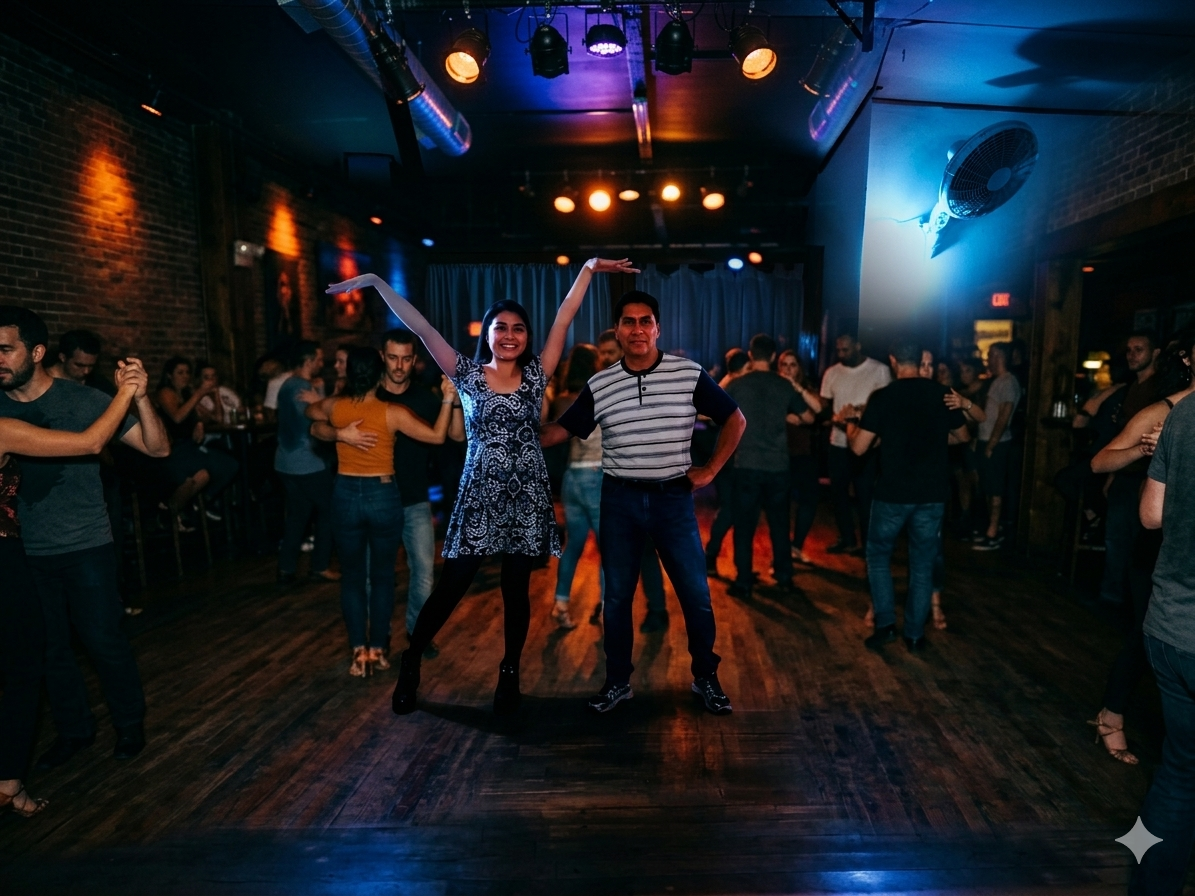
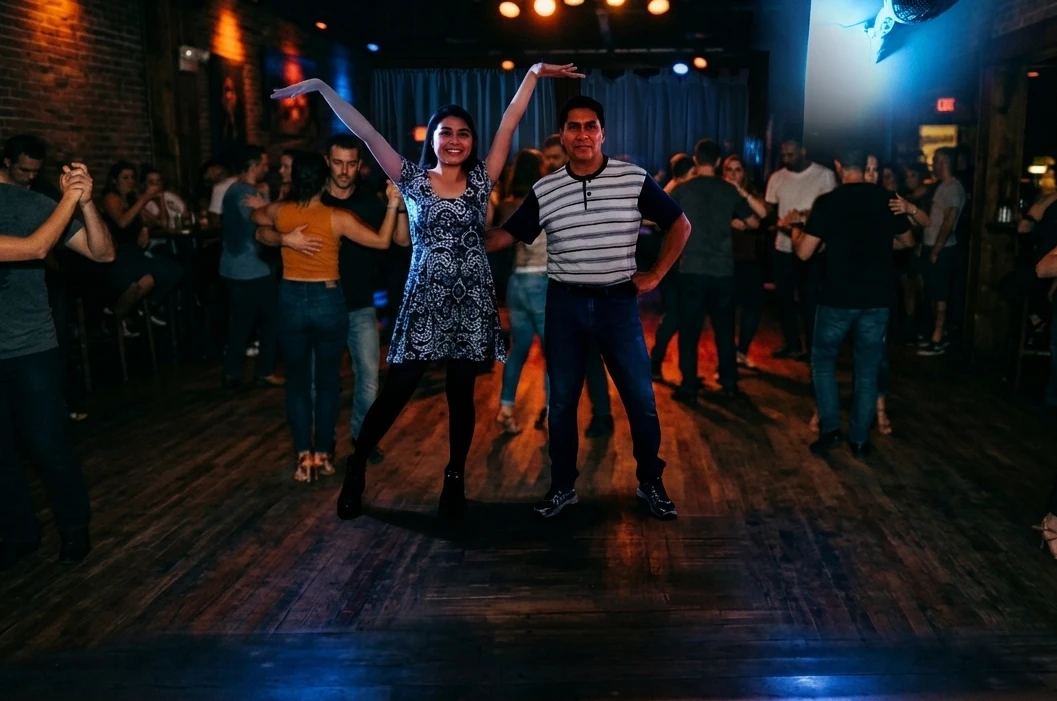
ajustes menores al boton whatsapp que desaparece en cierre

diff --git a/assets/js/whatsApp/whatsApp.js b/assets/js/whatsApp/whatsApp.js
@@ -25,7 +25,7 @@ const whatsAppFloat = () => {
 
 
     const btnWhatsApp = document.querySelector(".wa-wrapper");
-    const footer = document.querySelector(".footer");
+    const footer = document.querySelector(".cierre");
     window.addEventListener('scroll', () => {
 
         const footerRect = footer.getBoundingClientRect();
